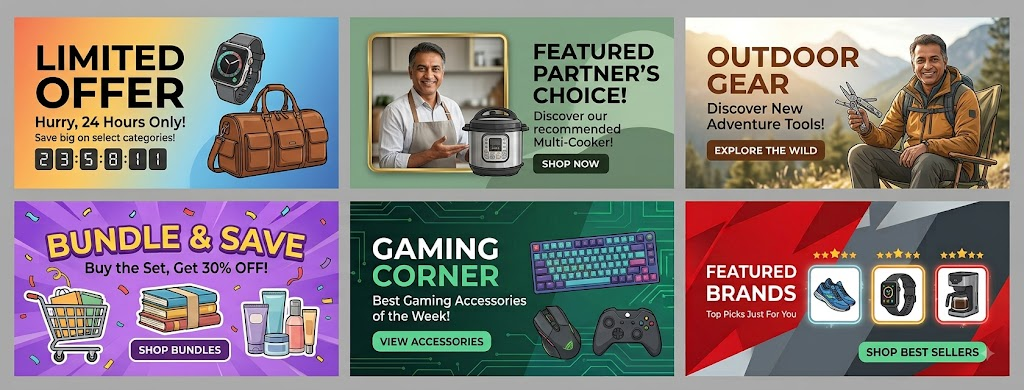
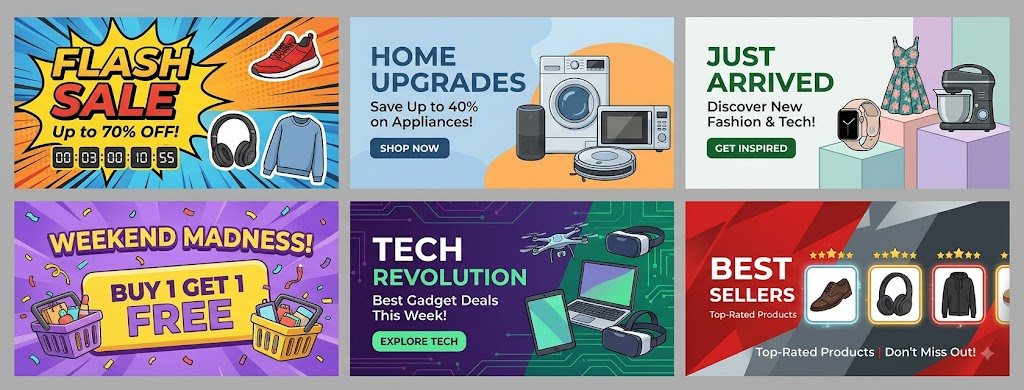
price

diff --git a/src/components/SideBar.jsx b/src/components/SideBar.jsx
@@ -1,42 +1,64 @@
 "use client";
 
-
-import React from "react";
+import React, { useState } from "react";
 import { LiaAngleDownSolid } from "react-icons/lia";
-import {Button} from "@mui/material";
-import  FormGroup from "@mui/material/FormGroup";
+import { Button } from "@mui/material"; // Removed duplicate Collapse import
+import FormGroup from "@mui/material/FormGroup";
 import FormControlLabel from "@mui/material/FormControlLabel";
 import Checkbox from "@mui/material/Checkbox";
-
-
+import { Collapse } from 'react-collapse';
+import {TfiAngleUp} from "react-icons/tfi";
+import RangeSlider from 'react-range-slider-input';
 const SideBar = () => {
+  // Corrected useState destructuring & matching state name
+  const [isOpenCatFilter, setIsOpenCatFilter] = useState(true);
+  const [Price, setPrice] = useState([0, 3000]);
+
   return (
-    <aside className="sticky top-[150px]">
+    <aside className="sticky top-[150px] flex flex-col gap-5">
       <div className="box">
         <div className="flex item-center justify-between">
           <h3 className="text-[16px] font-[600] text-gray-700">
             Shop by Category
           </h3>
-          <Button className="!min-w-[35px] !w-[35px] !h-[35px] !rounded-full hover-!bg-gray-200">
-            <LiaAngleDownSolid size={20} className="text-gray-800" />
+          {/* Fixed onClick prop */}
+          <Button 
+            className="!min-w-[35px] !w-[35px] !h-[35px] !rounded-full text-gray-700 hover:!bg-gray-200"
+            onClick={() => setIsOpenCatFilter(!isOpenCatFilter)}
+          >  
+            {isOpenCatFilter ? (
+              <TfiAngleUp size={20} className="text-gray-800" />
+            ) : (
+              <LiaAngleDownSolid size={20} className="text-gray-800" />
+            )}
           </Button>
         </div>
-<FormGroup>
-  <FormControlLabel control={<Checkbox  />} label="fruits & vegitables"/>
-  <FormControlLabel control={<Checkbox  />} label="Meat & Seafood"/>
-  <FormControlLabel control={<Checkbox  />} label="BreakFast & Diary"/>
-  <FormControlLabel control={<Checkbox  />} label="Breads & Bakery"/>
-  <FormControlLabel control={<Checkbox  />} label="Bevarages"/>
-  <FormControlLabel control={<Checkbox  />} label="Frozen Foods"/>
-  <FormControlLabel control={<Checkbox  />} label="Biscuits & Snacks"/>
-  <FormControlLabel control={<Checkbox  />} label="Grocery & Staples"/>
-
-  
-</FormGroup>
-
-
-
-
+        
+        <Collapse isOpened={isOpenCatFilter}>
+          <div className="scroll overflow-scroll max-h-[250px]">
+            <FormGroup>
+              <FormControlLabel control={<Checkbox />} label="fruits & vegitables" />
+              <FormControlLabel control={<Checkbox />} label="Meat & Seafood" />
+              <FormControlLabel control={<Checkbox />} label="BreakFast & Diary" />
+              <FormControlLabel control={<Checkbox />} label="Breads & Bakery" />
+              <FormControlLabel control={<Checkbox />} label="Bevarages" />
+              <FormControlLabel control={<Checkbox />} label="Frozen Foods" />
+              <FormControlLabel control={<Checkbox />} label="Biscuits & Snacks" />
+              <FormControlLabel control={<Checkbox />} label="Grocery & Staples" />
+            </FormGroup>
+          </div>
+        </Collapse> 
+      </div>
+      <div className="box">
+        <h3 className="text-[16px] font-[600] text-gray-700">Price</h3>
+        <RangeSlider
+          
+          value={Price}
+          onInput={setPrice}
+         min={100}
+         max={6000}
+         step={5}
+        />
       </div>
     </aside>
   );

diff --git a/src/app/globals.css b/src/app/globals.css
@@ -50,8 +50,15 @@
 
 hr{border-color:rgba(0, 0, 0, 0.2) !important}
 
+.ReactCollapse--collapse {
+  transition: height 300ms;
+}
+.MuiFormGroup-root .Mui-checked .MuiSvgIcon-root {
+  fill:#02B290 !important;
+}
 
-
+.range-slider{height:5 px!important;}
+.range-slider .range-slider__thumb{width: 20px !important; height: 20px !important;}
 
 
 
